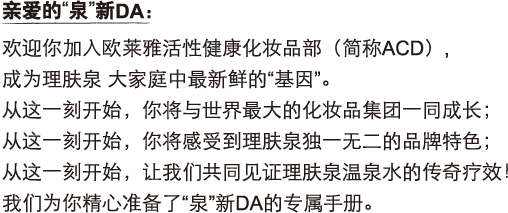
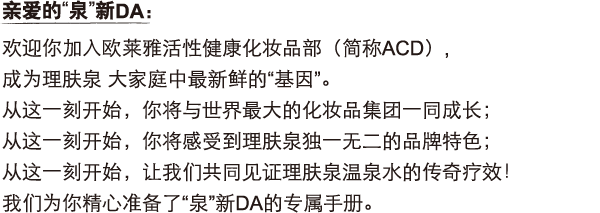
updated images

diff --git a/index.html b/index.html
@@ -50,8 +50,14 @@ $('img').on('load', function() {
       <div class="swiper-slide">
         <a href="javascript:void(0)" onclick="mySwiper.slidePrev()"><img src="img/long_page_head.png"></a>
         <img src="img/02-a.jpg" class="preload bounce animated swiper-lazy "/>
-        <img src="img/02-b.png" class="swiper-lazy"/>
-        <img data-src="img/02-c.png" class="swiper-lazy"/>
+        <img src="img/02-b-1.png" class="swiper-lazy preload m20 animated tada delay1"/>
+        <img src="img/02-b-2.png" class="swiper-lazy preload m20 animated delay1"/>
+        <img src="img/02-b-3.png" class="swiper-lazy preload m20 animated tada delay2"/>
+        <img src="img/02-b-4.png" class="swiper-lazy preload m20 animated delay2"/>
+        <img src="img/02-b-5.png" class="swiper-lazy preload m20 animated tada delay3"/>
+        <img src="img/02-b-6.png" class="swiper-lazy preload m20 animated delay3"/>
+        <img src="img/02-b-7.png" class="swiper-lazy preload m20 animated delay4"/>
+        <img data-src="img/02-c.png" class="swiper-lazy preload zoomIn animated"/>
         <img data-src="img/02-d.png" class="swiper-lazy"/>
         <img data-src="img/02-e.jpg" class="swiper-lazy"/>
         <img data-src="img/02-f.png" class="swiper-lazy"/>

diff --git a/css/style.css b/css/style.css
@@ -104,3 +104,7 @@ html, body {
   -ms-transition: none !important;
   -o-transition: none !important;
 }
+
+.m20 {
+	margin: 40px auto !important;
+}
